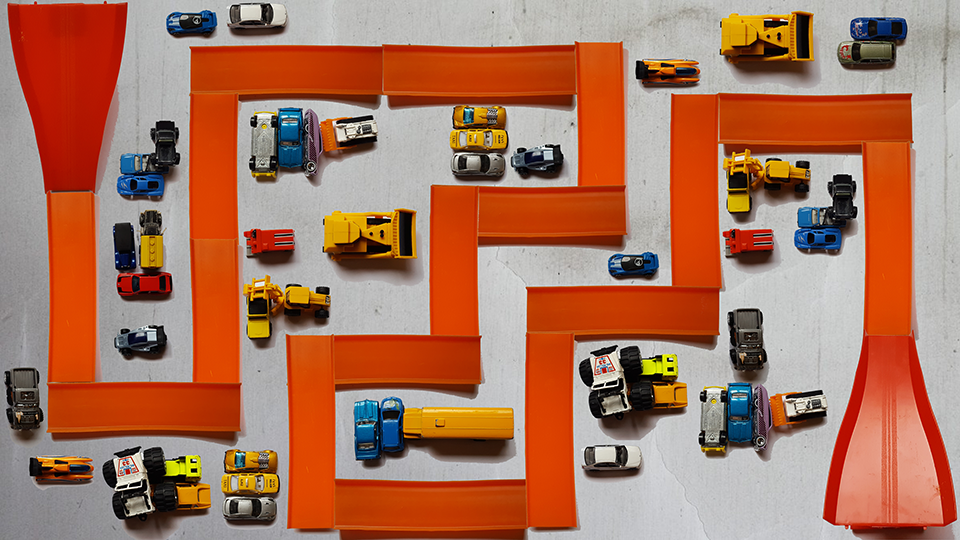
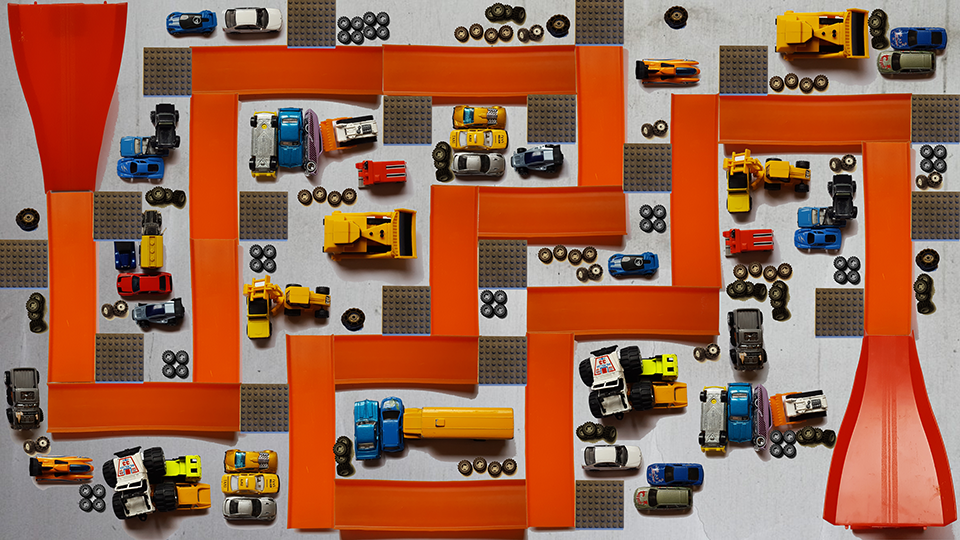
tires and build spots added to toy car map

diff --git a/js/mapList.js b/js/mapList.js
@@ -3,5 +3,9 @@ var mapList =[
 	{"name":"mapPencil","rows":17,"cols":12,"map":[[[0,0,0,0,0,0,0,0,0,0,0,0],[0,0,0,0,0,0,0,0,0,0,0,0],[0,0,0,4,0,0,0,4,0,0,0,0],[0,2,2,2,2,2,2,2,2,2,2,0],[0,2,4,0,0,0,0,0,0,4,2,0],[4,2,0,0,0,0,0,0,0,0,2,0],[0,2,0,0,0,1,0,0,0,0,2,0],[0,2,0,0,0,2,0,0,0,0,2,0],[0,2,0,0,3,2,0,0,0,0,2,0],[0,5,0,0,0,2,0,0,0,0,2,0],[0,0,0,0,0,2,0,0,0,0,2,0],[0,0,0,0,0,2,4,0,0,4,2,0],[0,0,0,0,0,2,2,2,2,2,2,0],[0,0,0,0,0,0,0,0,0,0,0,0],[0,0,0,0,0,0,0,0,0,0,0,0],[0,0,0,0,0,0,0,0,0,0,0,0],[0,0,0,0,0,0,0,0,0,0,0,0]],false,false,false,false,false,false,false]},
 	{"name":"mapDrawnLand","rows":16,"cols":13,"map":[[[0,0,0,0,0,0,0,0,0,0,0,0,0],[0,0,0,0,0,0,0,0,0,0,0,0,0],[0,0,0,0,0,0,0,0,0,0,0,0,0],[0,0,0,0,0,0,1,0,0,0,0,0,0],[0,0,0,0,0,0,2,0,0,0,0,0,0],[0,0,0,0,0,0,2,0,0,0,0,0,0],[0,0,0,0,0,0,2,0,3,2,2,0,0],[0,0,0,0,0,0,2,0,0,0,2,0,0],[0,0,0,2,2,2,2,0,0,0,2,0,0],[0,0,0,2,4,0,4,0,4,4,4,0,0],[0,0,0,2,2,2,2,2,4,4,4,0,0],[0,0,0,0,0,5,0,0,4,4,4,0,0],[0,0,0,0,0,0,0,0,4,4,4,0,0],[0,0,0,0,0,0,0,0,0,0,0,0,0],[0,0,0,0,0,0,0,0,0,0,0,0,0],[0,0,0,0,0,0,0,0,0,0,0,0,0]],false,false,false,false,false,false,false]},	
 	{"name":"bigMapTest","rows":16,"cols":13,"map":[[[0,0,0,0,0,0,0,0,0,0,0,0,0],[0,0,0,0,0,0,0,0,0,0,0,0,0],[0,0,0,0,0,0,0,0,0,0,0,0,0],[0,0,0,0,0,0,1,0,0,0,0,0,0],[0,0,0,0,0,0,2,0,0,0,0,0,0],[0,0,0,0,0,0,2,0,0,0,0,0,0],[0,0,0,0,0,0,2,0,3,2,2,0,0],[0,0,0,0,0,0,2,0,0,0,2,0,0],[0,0,0,2,2,2,2,0,0,0,2,0,0],[0,0,0,2,4,0,4,0,4,4,4,0,0],[0,0,0,2,2,2,2,2,4,4,4,0,0],[0,0,0,0,0,5,0,0,4,4,4,0,0],[0,0,0,0,0,0,0,0,4,4,4,0,0],[0,0,0,0,0,0,0,0,0,0,0,0,0],[0,0,0,0,0,0,0,0,0,0,0,0,0],[0,0,0,0,0,0,0,0,0,0,0,0,0]],false,false,false,false,false,false,false]},	
-	{"name":"toyCarMap","rows":20,"cols":11,"map":[[[0,0,0,0,4,0,4,0,0,0,0],[0,3,2,2,2,2,2,2,2,0,0],[0,0,0,0,0,0,0,0,2,0,0],[0,4,0,0,0,0,0,0,2,0,0],[0,2,2,2,2,2,2,2,2,0,0],[0,2,0,0,0,0,0,0,4,0,0],[4,2,0,0,0,0,0,2,2,2,2],[0,2,0,0,0,0,0,5,0,0,2],[0,2,4,4,0,0,4,2,0,0,2],[0,2,0,0,2,2,2,2,0,0,2],[0,2,0,0,2,0,0,4,0,0,2],[0,2,0,0,2,4,2,2,2,2,2],[4,2,2,2,2,0,2,0,0,0,4],[4,0,0,4,0,0,2,0,0,0,0],[0,0,2,2,2,2,2,4,0,0,0],[0,0,2,0,0,0,0,0,0,0,0],[0,0,2,0,0,0,0,0,0,0,0],[0,0,2,0,0,0,4,0,0,0,0],[0,0,2,2,2,2,2,2,2,2,1],[0,0,4,0,4,0,4,0,0,0,0]],false,false,false,false,false,false,false]},
+	
+	
+	{"name":"toyCarMap","rows":20,"cols":11,"map":[[[0,0,0,0,0,4,0,0,0,0,0],[0,3,2,2,2,2,2,2,2,0,0],[0,0,0,0,4,0,0,4,2,0,0],[0,4,0,0,0,0,0,0,2,0,0],[0,2,2,2,2,2,2,2,2,0,0],[0,2,0,0,4,0,0,0,4,0,0],[4,2,0,0,0,0,0,2,2,2,2],[0,2,0,0,0,0,0,5,0,0,2],[0,2,4,0,0,0,4,2,0,0,2],[0,2,0,0,2,2,2,2,0,0,2],[0,2,0,0,2,4,0,4,0,0,2],[0,2,4,0,2,0,2,2,2,2,2],[4,2,2,2,2,0,2,0,0,0,4],[0,0,0,4,0,0,2,0,0,0,0],[0,0,2,2,2,2,2,0,0,0,0],[0,4,2,0,0,0,0,0,0,0,0],[0,0,2,0,0,0,0,0,0,0,0],[0,0,2,0,0,0,4,0,0,0,0],[0,0,2,2,2,2,2,2,2,2,1],[0,0,4,0,4,0,0,0,0,0,0]],false,false,false,false,false,false,false]},	
+	
+	
 ]
